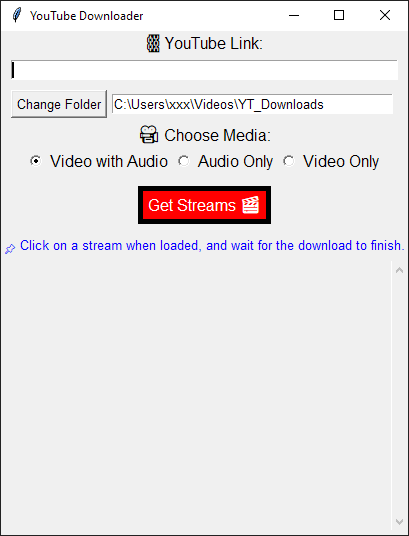
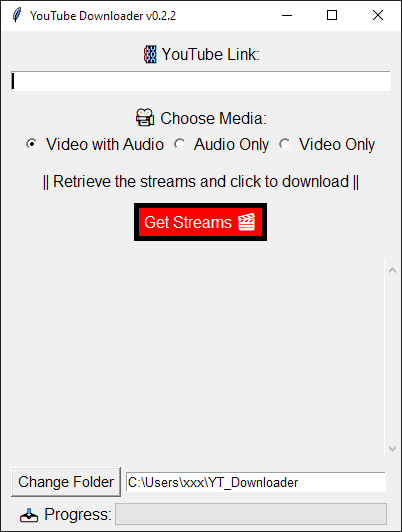
progress bar, error handling, GUI, refactor

diff --git a/ytDL.py b/ytDL.py
@@ -1,46 +1,96 @@
 import os
+import pathlib
 import tkinter as tk
-from tkinter import filedialog, messagebox
+from tkinter import filedialog, messagebox, ttk
 from pytube import YouTube
+from pytube.exceptions import PytubeError, VideoUnavailable, AgeRestrictedError, MembersOnly, VideoPrivate, VideoRegionBlocked, LiveStreamError, RecordingUnavailable, MaxRetriesExceeded, HTMLParseError, ExtractError, RegexMatchError
 
+# version number
+version = "0.2.2"
+# Set the main_path to a subfolder within the user's home directory
+main_path = os.path.join(os.path.expanduser('~'), 'YT_Downloader')
+# Dictionary to map media choices to sub directories
+sub_dirs = {'a': 'Audio_Only', 'v': 'Video_Only', 'c': 'Video_with_Audio'}
 
-# Set the main_path to a subfolder within the user's Videos folder
-main_path = os.path.join(os.path.expanduser('~'), 'Videos', 'YT_Downloads')
+# Dictionary to map media choices to filter functions
+filter_functions = {
+    'a': lambda streams: streams.filter(only_audio=True).order_by('abr').desc(),
+    'v': lambda streams: streams.filter(only_video=True).order_by('resolution').desc(),
+    'c': lambda streams: streams.filter(progressive=True).order_by('resolution').desc()
+}
 
+# get streams from url
 def fetch_streams():
-    global streams
     clear_stream_buttons()
     video_url = url_entry.get()
     media_choice = media_var.get().lower()
-    yt = YouTube(video_url)
-    streams = yt.streams
-    if media_choice == 'a':
-        streams = streams.filter(only_audio=True).order_by('abr').desc()
-    elif media_choice == 'v':
-        streams = streams.filter(only_video=True).order_by('resolution').desc()
-    else:
-        streams = streams.filter(progressive=True).order_by('resolution').desc()
+    try:
+        yt = YouTube(video_url, on_progress_callback=download_progress, allow_oauth_cache=False, use_oauth=False)
+        streams = yt.streams
+        streams = filter_functions[media_choice](streams)
+        for stream in streams:
+            stream_info = get_stream_info(stream, media_choice)
+            stream_button = create_stream_button(stream_info, stream)
+            stream_button.pack(fill='x')
+            stream_buttons.append(stream_button)
+    except PytubeError as e:
+        handle_error(e)
 
-    for stream in streams:
-        if media_choice == 'a':
-            stream_info = f"{stream.abr} ({stream.mime_type} - Codec: {stream.audio_codec.split('.')[0]})"
-        else:
-            stream_info = f"{stream.resolution} ({stream.mime_type} - {stream.fps} fps - Codec: {stream.video_codec.split('.')[0]})"
-        stream_button = tk.Button(scrollable_frame, text=stream_info, fg='yellow', bg='black', command=lambda s=stream: download_media(s))
-        stream_button.pack(fill='x')
-        stream_buttons.append(stream_button)
+# error handling
+def handle_error(e):
+    if isinstance(e, AgeRestrictedError):
+        messagebox.showerror("Age Restricted", f"Sorry, the Video {e.video_id} is age-restricted.")
+    elif isinstance(e, MembersOnly):
+        messagebox.showerror("MembersOnly", f"Members only video, skipping.")
+    elif isinstance(e, VideoPrivate):
+        messagebox.showerror("Video Private", f"Video {e.video_id} is private, skipping.")
+    elif isinstance(e, VideoRegionBlocked):
+        messagebox.showerror("Video Region Blocked", f"Video {e.video_id} is Region blocked, skipping.")
+    elif isinstance(e, VideoUnavailable):
+        messagebox.showerror("Video Unavailable", f"Video {e.video_id} is unavailable, skipping.")
+    elif isinstance(e, LiveStreamError):
+        messagebox.showerror("Live Stream", f"Video {e.video_id} is a Live Stream, skipping.")
+    elif isinstance(e, RecordingUnavailable):
+        messagebox.showerror("Recording Unavailable", f"Recording {e.video_id} is not avaiable, skipping.")
+    elif isinstance(e, MaxRetriesExceeded):
+        messagebox.showerror("Max Retries Exceeded", "An error occurred during download: Maximum number of retries exceeded.")
+    elif isinstance(e, HTMLParseError):
+        messagebox.showerror("HTML Parse Error", "An error occurred during download: HTML could not be parsed.")
+    elif isinstance(e, ExtractError):
+        messagebox.showerror("Extract Error", "An error occurred during download: Data extraction error.")
+    elif isinstance(e, RegexMatchError):
+        messagebox.showerror("Regex Match Error", f"An error occurred during download: {e.caller}: could not find match for {e.pattern}")
+    else:
+        messagebox.showerror("Unknown Error", f"An unknown error occurred during download: {str(e)}")
+        
+#get stream info
+def get_stream_info(stream, media_choice):
+    codec = stream.audio_codec if media_choice == 'a' else stream.video_codec
+    return f"{stream.abr if media_choice == 'a' else stream.resolution} ({stream.mime_type} - {'Codec: ' + codec.split('.')[0] if media_choice == 'a' else str(stream.fps) + ' fps - Codec: ' + codec.split('.')[0]})"
+
+# create stream buttons
+def create_stream_button(stream_info, stream):
+    return tk.Button(scrollable_frame, text=stream_info, fg='yellow', bg='black', command=lambda s=stream: download_media(s))
+
+# sanitize filename and add params
+def get_stream_filename(stream):
+    name, ext = os.path.splitext(stream.default_filename)
+    filename = ''.join(c if c.isalnum() or c in [' ', '_', '-'] else '' for c in name)
+    filename = filename.replace(' ', '_').replace('-', '_')
+    media_type = media_var.get().lower()
+    codec_info = f"{stream.abr}_{stream.audio_codec.split('.')[0]}" if media_type == 'a' else f"{stream.resolution}_{stream.video_codec.split('.')[0]}"
+    return f"{filename}_{codec_info}{ext}"
 
 # download stream
 def download_media(stream):
-    sub_dir = {'a': 'audio', 'v': 'video'}.get(media_var.get().lower(), 'video_audio')
-    output_path = os.path.join(main_path, sub_dir)
+    output_path = os.path.join(main_path, sub_dirs[media_var.get().lower()])
     try:
-        stream.download(output_path=output_path)
+        stream.download(output_path=output_path, filename=get_stream_filename(stream))
         messagebox.showinfo("Download Complete", "Download complete.")
-    except Exception as e:
+    except PytubeError as e:
         messagebox.showerror("Error", f"An error occurred during download: {e}")
-        
-# change download button  
+
+# change download folder
 def select_download_folder():
     folder_selected = filedialog.askdirectory()
     if folder_selected:
@@ -49,82 +99,87 @@ def select_download_folder():
         folder_path_entry.delete(0, tk.END)
         folder_path_entry.insert(0, main_path)
 
-# clean stream buttons when new get fetched
+# delete stream buttons before fetching new ones
 def clear_stream_buttons():
     for button in stream_buttons:
         button.destroy()
     stream_buttons.clear()
-    
+
 # handle mouse scroll
 def on_mousewheel(event):
-    streams_canvas.yview_scroll(int(-1*(event.delta/120)), "units")
-    
+    streams_canvas.yview_scroll(-event.delta//120, "units")
+
+# progress bar
+def reset_progress_bar():
+    progress_bar['value'] = 0
+
+def download_progress(stream, chunk, bytes_remaining):
+    progress_bar['value'] = (1 - (bytes_remaining / stream.filesize)) * 100
+    # update window for progress
+    window.update()
+    # keep the green for 2 secs then reset
+    if bytes_remaining == 0:
+        window.after(2000, reset_progress_bar)
+
+
+## GUI ##
+# create widgets
+def create_pack(widget_type, master, pack_args={}, **kwargs):
+    widget = widget_type(master, **kwargs)
+    widget.pack(**pack_args)
+    return widget
+
 # main window
 window = tk.Tk()
-window.title("YouTube Downloader")
-window.resizable(width=False, height=True)
-
-# URL label
-url_label = tk.Label(window, text="⛓ YouTube Link:", font=('monospace'))
-url_label.pack(side='top', fill='x')
+window.geometry("400x500")
+window.resizable(False, True)
+window.title(f"YouTube Downloader v{version}")
 
 # URL input
-url_entry = tk.Entry(window, font=('monospace', 10))
-url_entry.pack(side='top', fill='x', padx=10, pady=5)
+url_frame = create_pack(tk.Frame, window, pack_args={'side': 'top', 'pady': 5})
+url_label = create_pack(tk.Label, window, text="⛓ YouTube Link:", font=('monospace'), pack_args={'side': 'top', 'fill': 'x'})
+url_entry = create_pack(tk.Entry, window, font=('monospace', 10), pack_args={'side': 'top', 'fill': 'x', 'padx': 10, 'pady': 5})
 
-# folder frame 
-folder_frame = tk.Frame(window)
-folder_frame.pack(side='top', fill='x', expand=True, pady=5, padx=10)
-# download change button
-change_folder_button = tk.Button(folder_frame, text="Change Folder", font=('monospace', 10), command=select_download_folder)
-change_folder_button.pack(side='left')
-# download path
-folder_path_entry = tk.Entry(folder_frame, font=('monospace', 10))
-folder_path_entry.pack(side='left', padx=5, fill='x', expand=True)
-# set initial folder to users video folder
+# media choice
+media_frame = create_pack(tk.Frame, window, pack_args={'side': 'top', 'pady': 10})
+media_label = create_pack(tk.Label, media_frame, text="🎥 Choose Media:", font=('monospace'), pack_args={'side': 'top'})
+media_var = tk.StringVar(value="C")
+media_choices = [("Video with Audio", "C"),("Audio Only", "A"), ("Video Only", "V")]
+for text, choice in media_choices:
+    create_pack(tk.Radiobutton, media_frame, text=text, variable=media_var, value=choice, font=('monospace',), pack_args={'side': 'left'})
+
+# fetch button and instruction label
+instruction_label = create_pack(tk.Label, window, text="|| Retrieve the streams and click to download ||", font=('monospace'))
+fetch_button = create_pack(tk.Button, window, text="Get Streams 🎬", font=('monospace'), bg='red', fg='white', bd=5, relief='solid', command=fetch_streams, pack_args={'side': 'top', 'padx': 5, 'pady': 10})
+
+# progress bar
+progress_frame = create_pack(tk.Frame, window, pack_args={'side': 'bottom', 'fill': 'x', 'expand': True, 'pady': 5, 'padx': 14})
+progress_label = create_pack(tk.Label, progress_frame, text="📥 Progress:", font=('monospace'), pack_args={'side': 'left'})
+progress_bar = create_pack(tk.ttk.Progressbar, progress_frame, orient="horizontal", length=300, mode="determinate", pack_args={'side': 'left'})
+
+# folder frame
+folder_frame = create_pack(tk.Frame, window, pack_args={'side': 'bottom', 'fill': 'x', 'expand': True, 'padx': 10})
+change_folder_button = create_pack(tk.Button, folder_frame, text="Change Folder", font=('monospace', 11), command=select_download_folder, pack_args={'side': 'left'})
+folder_path_entry = create_pack(tk.Entry, folder_frame, font=('monospace', 10), pack_args={'side': 'left', 'padx': 5, 'fill': 'x', 'expand': True})
 folder_path_entry.insert(0, main_path)
 
-# media label
-media_label = tk.Label(window, text="🎥 Choose Media:", font=('monospace'))
-media_label.pack(side='top')
-# media frame for buttons
-media_frame = tk.Frame(window)
-media_frame.pack(side='top')
-# media radio buttons
-media_var = tk.StringVar(value="C")  # Default choice is Audio and Video
-media_choices = [("Video with Audio", "C"), ("Audio Only", "A"), ("Video Only", "V")]
-for text, choice in media_choices:
-    tk.Radiobutton(media_frame, text=text, variable=media_var, value=choice, font=('monospace')).pack(side='left')
-
-# fetch button
-fetch_button = tk.Button(window, text="Get Streams 🎬", font=('monospace'), bg='red', fg='white', bd=5, relief='solid', command=fetch_streams)
-fetch_button.pack(side='top', padx=10, pady=10)
-
-# instruction label
-instruction_label = tk.Label(window, text="📌 Click on a stream when loaded, and wait for the download to finish.", fg='blue', font=('monospace', 10))
-instruction_label.pack()
-
-# stream frame + canvas + scrollbar
-streams_frame = tk.Frame(window)
-streams_frame.pack(side='top', fill='both', expand=True, pady='5')
-
-streams_canvas = tk.Canvas(streams_frame)
-scrollbar = tk.Scrollbar(streams_frame, orient="vertical", command=streams_canvas.yview)
-scrollbar.pack(side="right", fill="y")
-
+# window frame + canvas + scrollbar
+streams_frame = create_pack(tk.Frame, window, pack_args={'side': 'top', 'fill': 'both', 'expand': True, 'pady': 10})
+streams_canvas = create_pack(tk.Canvas, streams_frame)
+scrollbar = create_pack(tk.Scrollbar, streams_frame, orient="vertical", command=streams_canvas.yview, pack_args={'side': "right", 'fill': "y"})
 streams_canvas.pack(side="left", fill="both", expand=True)
 streams_canvas.configure(yscrollcommand=scrollbar.set)
 
-scrollable_frame = tk.Frame(streams_canvas)
+# scrollable frame
+scrollable_frame = create_pack(tk.Frame, streams_canvas)
 streams_canvas.create_window((0, 0), window=scrollable_frame, anchor="nw", width=streams_canvas.winfo_reqwidth())
-
 scrollable_frame.bind("<Configure>", lambda e: streams_canvas.configure(scrollregion=streams_canvas.bbox("all")))
 
-# bind mousewheel 
+# bind mousewheel to canvas
 streams_canvas.bind_all("<MouseWheel>", on_mousewheel)
 
-# stream button array
-stream_buttons = []  # List to keep track of stream buttons
+# stream buttons var
+stream_buttons = []
 
-# start GUI loop
+# run loop
 window.mainloop()
